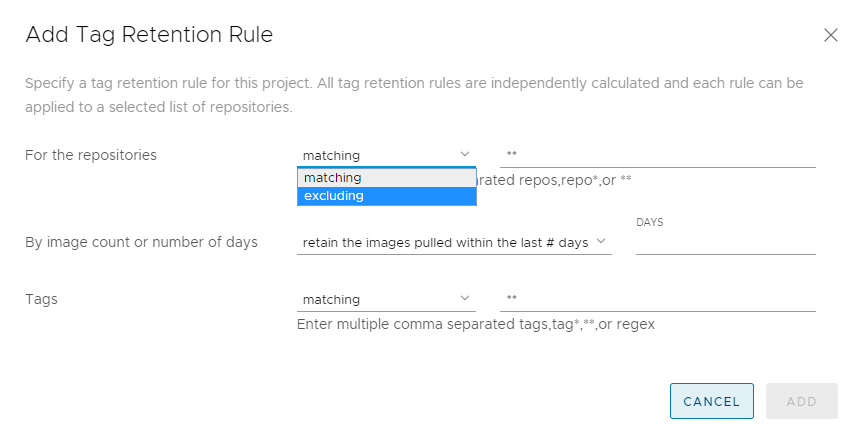
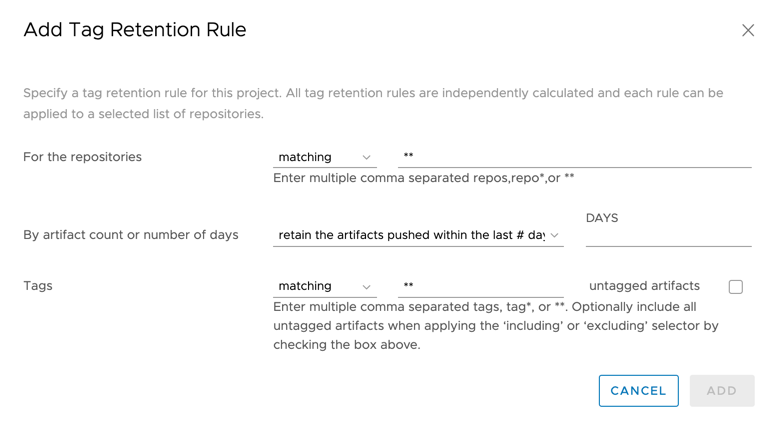
feat(doc) update retention/replication doc

diff --git a/docs/working-with-projects/working-with-images/create-tag-retention-rules.md b/docs/working-with-projects/working-with-images/create-tag-retention-rules.md
@@ -3,7 +3,7 @@ title: Create Tag Retention Rules
 weight: 80
 ---
 
-A repository can rapidly accumulate a large number of image tags, many of which might not be required after a given time or once they have been superseded by a subsequent image build. These excess tags can obviously consume large quantities of storage capacity. As a Harbor system administrator, you can define rules that govern how many tags of a given repository to retain, or for how long to retain certain tags. 
+A repository can rapidly accumulate a large number of artifacts, many of which might not be required after a given time or once they have been superseded by a subsequent artifact build. These excess artifacts can obviously consume large quantities of storage capacity. As a Harbor system administrator, you can define rules that govern how many artifacts of a given repository to retain, or for how long to retain certain artifacts. 
 
 ## How Tag Retention Rules Work
 
@@ -13,60 +13,70 @@ A tag retention rule has 3 filters that are applied sequentially, as described i
 
 |Order|Filter|Description|
 |---|---|---|
-|First|Repository or repositories|Identify the repository or repositories on which to apply the rule. You can identify repositories that either have a certain name or name fragment, or that do not have that name or name fragment. Wild cards (for example `*repo`, `repo*`, and `**`) are permitted. The repository filter is applied first to mark the repositories to which to apply the retention rule. The identified repositories are earmarked for further matching based on the tag criteria. No action is taken on the nonspecified repositories at this stage.|
+|First|Repository or repositories|Identity the tags on which to apply the rule. You can identify repositories that either have a certain name or name fragment, or that do not have that name or name fragment. Wild cards (for example `*repo`, `repo*`, and `**`) are permitted. The repository filter is applied first to mark the repositories to which to apply the retention rule. The identified repositories are earmarked for further matching based on the tag criteria. No action is taken on the nonspecified repositories at this stage.|
 |Second|Quantity to retain|Set which tags to retain either by specifying a maximum number of tags, or by specifying a maximum period for which to retain tags.|
-|Third|Tags to retain|Identify the tag or tags on which to apply the rule. You can identify tags that either have a certain name or name fragment, or that do not have that name or name fragment. Wild cards (for example `*tag`, `tag*`, and `**`) are permitted.|
+|Third|Tags to retain|Identify the tag or tags on which to apply the rule. You can identify tags that either have a certain name or name fragment, or that do not have that name or name fragment. Wild cards (for example `*tag`, `tag*`, and `**`) are permitted. Use the checkbox to select whether untagged artifacts should be captured as part of the set of artifacts eligible for tag retention.|
 
 For information about how the `**` wildcard is applied, see https://github.com/bmatcuk/doublestar#patterns.
 
 ### Example 1
 
 - You have 5 repositories in a project, repositories A to E.
-  - Repository A has 100 image tags, all of which have been pulled in the last week.
-  - Repositories B to E each have 6 images, none of which have been pulled in the last month.
+  - Repository A has 102 artifacts with 2 untagged, all of which have been pulled in the last week.
+  - Repositories B to E each have 7 artifacts with 1 untagged artifact, none of which have been pulled in the last month.
 - You set the repository filter to `**`, meaning that all repositories in the project are included.
-- You set the retention policy to retain the 10 most recently pulled images in each repository.
-- You set the tag filter to `**`, meaning that all tags in the repository are included.
+- You set the retention policy to retain the 10 most recently pulled artifacts in each repository.
+- You set the tag filter to `**`, keep "untagged artifacts" unchecked, meaning that all artifacts with at least one tag in the repository are included.
 
-In this example the rule retains the 10 most recently pulled images in repository A, and all 6 of the images in each of the 4 repositories B to E. So, a total of 34 image tags are retained in the project. In other words, the rule does not treat all of the images in repositories A to E as a single pool from which to choose the 10 most recent images. So, even if the 11th to 100th tags in repository A have been pulled more recently than any of the tags in repositories B to E, all of the tags in repositories B to E are retained, because each of those repositories has fewer than 10 tags.
+In this example the rule retains the 10 most recently pulled tagged artifacts in repository A, and the 6 of the artifacts in each of the 4 repositories B to E. So, a total of 34 artifacts are retained in the project. 
+In other words, the rule does not treat all of the artifacts in repositories A to E as a single pool from which to choose the 10 most recent artifacts. 
+So, even if the 11th to 100th tags in repository A have been pulled more recently than any of the tags in repositories B to E, all of the tagged artifacts in repositories B to E are retained, because each of those repositories has fewer than 10 tags, and all untagged artifacts are deleted.
 
 ### Example 2
 
-This example uses the same project and repositories as example 1, but sets the retention policy to retain the images in each repository that have been pulled in the last 7 days.
+This example uses the same project and repositories as example 1, but sets the retention policy to retain the artifacts in each repository that have been pulled in the last 7 days.
 
-In this case, all of the images in repository A are retained because they have been pulled in the last 7 days. None of the images in repositories B to E are retained, because none of them has been pulled in the last week. In this example, 100 images are retained, as opposed to 34 images in example 1.
+In this case, all of the 100 tagged artifacts in repository A are retained because they have been pulled in the last 7 days. None of the artifacts in repositories B to E are retained, because none of them has been pulled in the last week. In this example, 100 artifacts are retained, as opposed to 34 artifacts in example 1.
+And all untagged artifacts are deleted.
+
+### Example 3
+
+This example uses the same project and repositories as example 2, but checked "untagged artifacts", then all artifacts in repository A are retained.
+
+In this case, all of the 103 artifacts in repository A are retained because they have been pulled in the last 7 days. None of the artifacts in repositories B to E are retained, because none of them has been pulled in the last week. In this example, 103 artifacts are retained, as opposed to 100 artifacts in example 2.
+And all untagged artifacts are retained.
 
 ### Tag Retention Rules and Native Docker Tag Deletion
 
-**WARNING**: Due to native Docker tag deletion behavior, there is an issue with the current retention policy implementation. If you have multiple tags that refer to the same SHA digest, and if a subset of these tags are marked for deletion by a configured retention policy, all of the remaining tags would also be deleted. This violates the retention policy, so in this case all of the tags are retained. This issue will be addressed in a future update release, so that tag retention policies can delete tags without deleting the digest and other shared tags.
+**Note**: If an artifact has several tags, and only a partial set of tags are matched via the retention policy, then the artifact and all its tags will be retained. In other words, retention is matched at the tag level but retention / deletion is carried out at the artifact level, with retention fully preserving the artifact including all of its tags. 
 
 For example, you have following tags, listed according to their push time, and all of them refer to the same SHA digest:
 
-- `harbor-1.8`, pushed 8/14/2019 12:00am
+- `harbor-1.8`, pushed 8/14/2019 01:00am
 - `harbor-release`, pushed 8/14/2019 03:00am
 - `harbor-nightly`, pushed 8/14/2019 06:00am
 - `harbor-latest`, pushed 8/14/2019 09:00am
 
-You configure a retention policy to retain the two latest tags that match `harbor-*`, so that `harbor-rc` and `harbor-latest` are deleted. However, since all tags refer to the same SHA digest, this policy would also delete the tags `harbor-1.8` and `harbor-release`, so all tags are retained.
+You configure a retention policy to retain the two latest tags that match `harbor-*`, so that `harbor-rc` and `harbor-latest` are retained. However, since all tags refer to the same SHA digest, this policy would also retain the tags `harbor-1.8` and `harbor-release`, so all tags are retained.
 
 ## Combining Rules on a Repository
 
 You can define up to 15 rules per project. You can apply multiple rules to a repository or set of repositories. When you apply multiple rules to a repository, they are applied with `OR` logic rather than with `AND` logic. In this way, there is no prioritization of application of the rules on a given repository. Rules run concurrently in the background, and the resulting sets from each rule are combined at the end of the run.
 
-### Example 3
+### Example 4
 
 This example uses the same project and repositories as examples 1 and 2, but sets two rules:
 
-- Rule 1: Retain all of the images in each repository that have been pulled in the last 7 days.
-- Rule 2: Retain a maximum number of 10 images in each repository.
+- Rule 1: Retain all of the artifacts in each repository that have been pulled in the last 7 days.
+- Rule 2: Retain a maximum number of 10 artifacts in each repository.
 
-For repository A, rule 1 retains all of the images because they have all been pulled in the last week. Rule 2 retains the 10 most recently pulled images. So, since the two rules are applied with an `OR` relationship, all 100 images are retained in repository A.
+For repository A, rule 1 retains all of the 100 tagged artifacts because they have all been pulled in the last week. Rule 2 retains the 10 most recently pulled artifacts. So, since the two rules are applied with an `OR` relationship, all 100 artifacts are retained in repository A.
 
-For repositories B-E, rule 1 will retain 0 images as no images are pulled in the last week. Rule 2 will retain all 6 images because 6 < 10. So, since the two rules are applied with an `OR` relationship, for repositories B-E, each repository will keep all 6 images.
+For repositories B-E, rule 1 will retain 0 artifacts as no artifacts are pulled in the last week. Rule 2 will retain all 6 artifacts because 6 < 10. So, since the two rules are applied with an `OR` relationship, for repositories B-E, each repository will keep all 6 artifacts.
 
-In this example, all of the images are retained.
+In this example, all of the artifacts are retained.
 
-### Example 4
+### Example 5
 
 This example uses a different repository to the previous examples.
 
@@ -80,8 +90,8 @@ This example uses a different repository to the previous examples.
   |`4.4-your_repo-prod`|`4.4-your_repo-rc`|`4.4-your_repo-release`| 
 
 - You define three tag retention rules on this repository:
-  - Retain the 10 most recently pushed image tags that start with `2`.
-  - Retain the 10 most recently pushed image tags that end with `-prod`.
+  - Retain the 10 most recently pushed artifacts that start with `2`.
+  - Retain the 10 most recently pushed artifacts that end with `-prod`.
   - Retain all tags that do not include `2.1-your_repo-prod`.
 
 In this example, the rules are applied to the following 7 tags:
@@ -94,6 +104,8 @@ In this example, the rules are applied to the following 7 tags:
 - `3.1-your_repo-prod`
 - `4.4-your_repo-prod`
 
+Because there are no untagged artifacts, checking the checkbox makes no difference.
+
 ## How Tag Retention Rules Interact with Project Quotas
 
 The Harbor system administrator can set a maximum on the number of tags that a project can contain and the amount of storage that it can consume. For information about project quotas, see [Configure Project Quotas](../../administration/configure-project-quotas/_index.md). 
@@ -103,7 +115,7 @@ If you set a quota on a project, this quota cannot be exceeded. The quota is app
 ## Configure Tag Retention Rules
 
 1. Log in to the Harbor interface with an account that has at least project administrator privileges.
-1. Go to **Projects**, select a project, and select **Tag Retention**.
+1. Go to **Projects**, select a project, select **Policy**, and select **Tag Retention**.
 
    ![Tag options](../../../img/tag-retention1.png)
 1. Click **Add Rule** to add a rule.
@@ -119,16 +131,16 @@ If you set a quota on a project, this quota cannot be exceeded. The quota is app
    - `**` to apply the rule to all of the repositories in the project. 
   
    If you selected **matching**, the rule is applied to the repositories you identified. If you selected **excluding**, the rule is applied to all of the repositories in the project except for the ones that you identified.
-1. In the **By image count or number of days** drop-down menu, define how many tags to retain or the period to retain tags.
+1. In the **By artifact count or number of days** drop-down menu, define how many tags to retain or the period to retain tags.
   ![Select retention criteria](../../../img/tag-retention3.png)
   
    |Option|Description|
    |---|---|
-   |**retain the most recently pushed # images**|Enter the maximum number of images to retain, keeping the ones that have been pushed most recently. There is no maximum age for an image.|
-   |**retain the most recently pulled # images**|Enter the maximum number of images to retain, keeping only the ones that have been pulled recently. There is no maximum age for an image.|
-   |**retain the images pushed within the last # days**|Enter the number of days to retain images, keeping only the ones that have been pushed during this period. There is no maximum number of images.|
-   |**retain the images pulled within the last # days**|Enter the number of days to retain images, keeping only the ones that have been pulled during this period. There is no maximum number of images.|
-   |**retain always**|Always retain the images identified by this rule.| 
+   |**retain the most recently pushed # artifacts**|Enter the maximum number of artifacts to retain, keeping the ones that have been pushed most recently. There is no maximum age for an artifact.|
+   |**retain the most recently pulled # artifacts**|Enter the maximum number of artifacts to retain, keeping only the ones that have been pulled recently. There is no maximum age for an artifact.|
+   |**retain the artifacts pushed within the last # days**|Enter the number of days to retain artifacts, keeping only the ones that have been pushed during this period. There is no maximum number of artifacts.|
+   |**retain the artifacts pulled within the last # days**|Enter the number of days to retain artifacts, keeping only the ones that have been pulled during this period. There is no maximum number of artifacts.|
+   |**retain always**|Always retain the artifacts identified by this rule.| 
 
 1. In the **Tags** drop-down menu, select **matching** or **excluding**.
 1. In the **Tags** text box, identify the tags on which to apply the rule.

diff --git a/docs/administration/configuring-replication/create-replication-rules.md b/docs/administration/configuring-replication/create-replication-rules.md
@@ -11,30 +11,26 @@ A replication endpoint must exist before you create a replication rule. To creat
    ![Add a replication rule](../../../img/replication-rule1.png)
 1. Click **New Replication Rule**.
 1. Provide a name and description for the replication rule.
-1. Select **Push-based** or **Pull-based** replication, depending on whether you want to replicate images to or from the remote registry.
+1. Select **Push-based** or **Pull-based** replication, depending on whether you want to replicate artifacts to or from the remote registry.
 
    ![Replication mode](../../../img/replication-rule2.png)
-1. For **Source resource filter**, identify the images to replicate.  
+1. For **Source resource filter**, identify the artifacts to replicate.  
 
    ![Replication filters](../../../img/replication-rule3.png)
 
-   * **Name**: Replicate resources with a given name by entering an image name or fragment.
+   * **Name**: Replicate resources with a given name by entering an artifact name or fragment.
    * **Tag**: Replicate resources with a given tag by entering a tag name or fragment.
    * **Label**: Replicate resources with a given label by using the drop-down menu to select from the available labels.
-   * **Resource**: Replicate images, charts, or both.
+   * **Resource**: Replicate artifacts, charts, or both.
 
    The name filter and tag filters support the following patterns:
 
    * **\***: Matches any sequence of non-separator characters `/`.
-   * **\*\***: Matches any sequence of characters, including path separators `/`.
-   * **?**: Matches any single non-separator character `/`.
-   * **{alt1,...}**: Matches a sequence of characters if one of the comma-separated alternatives matches. are as follows:
-   * **\***: Matches any sequence of non-separator characters `/`.
-   * **\*\***: Matches any sequence of characters, including path separators `/`.
+   * **\*\***: Matches any sequence of characters, including path separators `/`. Note that the doublestar must appear as a path component by itself. A pattern such as /path\*\* is invalid and will be treated the same as /path*, but /path\*/\*\* should achieve the desired result.
    * **?**: Matches any single non-separator character `/`.
    * **{alt1,...}**: Matches a sequence of characters if one of the comma-separated alternatives matches.
 
-   **NOTE:** You must add `library` if you want to replicate the official images of Docker Hub. For example, `library/hello-world` matches the official hello-world images.  
+   **NOTE:** You must add `library` if you want to replicate the official artifacts of Docker Hub. For example, `library/hello-world` matches the official hello-world artifacts.  
 
    Pattern | String(Match or not)
    ---------- | -------
@@ -48,13 +44,17 @@ A replication endpoint must exist before you create a replication rule. To creat
    If you do not enter a namespace, resources are placed in the same namespace as in the source registry. 
 
    ![Destination and namespaces](../../../img/replication-rule4.png)
+   
+   **NOTE:** Because of major API changes in the v2.0 release to support [OCI](https://github.com/opencontainers/distribution-spec).
+   You **can not** replicate from harbor 1.x to 2.0, and you **can not** replicate artifacts with **manifest list** from 2.0 to 1.x. 
+   
 1. Use the Trigger Mode drop-down menu to select how and when to run the rule.
    * **Manual**: Replicate the resources manually when needed. **Note**: Deletion operations are not replicated. 
    * **Scheduled**: Replicate the resources periodically by defining a cron job. **Note**: Deletion operations are not replicated. 
-   * **Event Based**: When a new resource is pushed to the project, or an image is retagged, it is replicated to the remote registry immediately. If you select the **Delete remote resources when locally deleted**, if you delete an image, it is automatically deleted from the replication target.
+   * **Event Based**: When a new resource is pushed to the project, or an artifact is retagged, it is replicated to the remote registry immediately. If you select the **Delete remote resources when locally deleted**, if you delete an artifact, it is automatically deleted from the replication target.
 
    {{< note >}}
-   You can filter images for replication based on the labels that are applied to the images. However, changing a label on an image does not trigger replication. Event-based replication is limited to pushing, retagging, and deleting images.
+   You can filter artifacts for replication based on the labels that are applied to the artifacts. However, changing a label on an artifact does not trigger replication. Event-based replication is limited to pushing, retagging, and deleting artifacts.
    {{< /note >}}
 
    ![Trigger mode](../../../img/replication-rule5.png)
